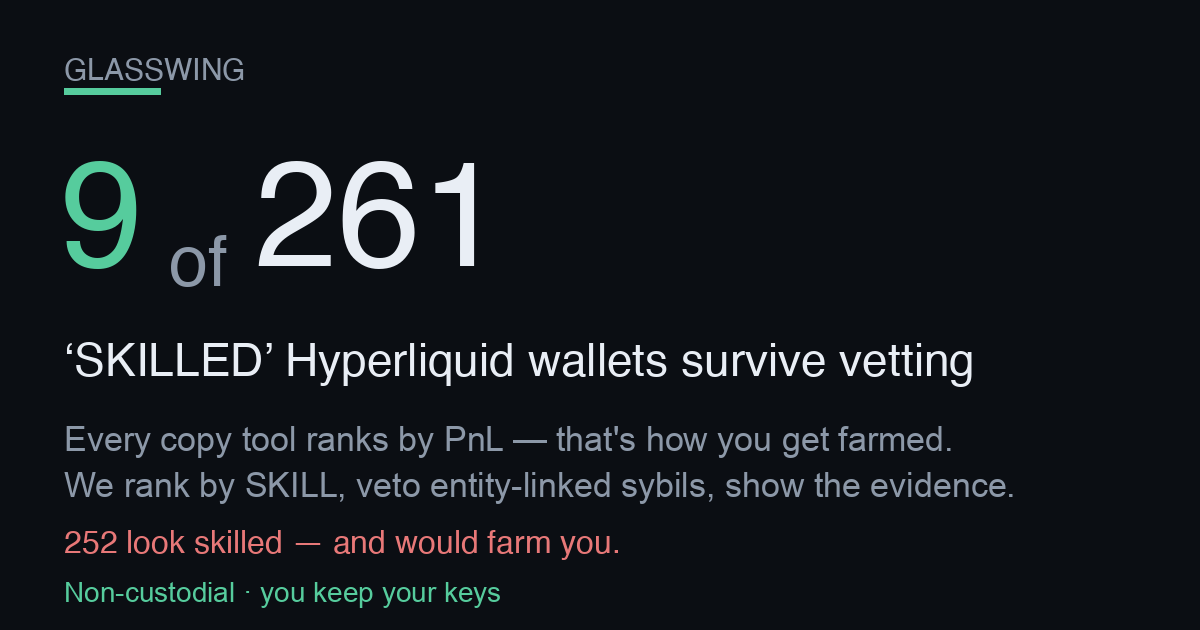
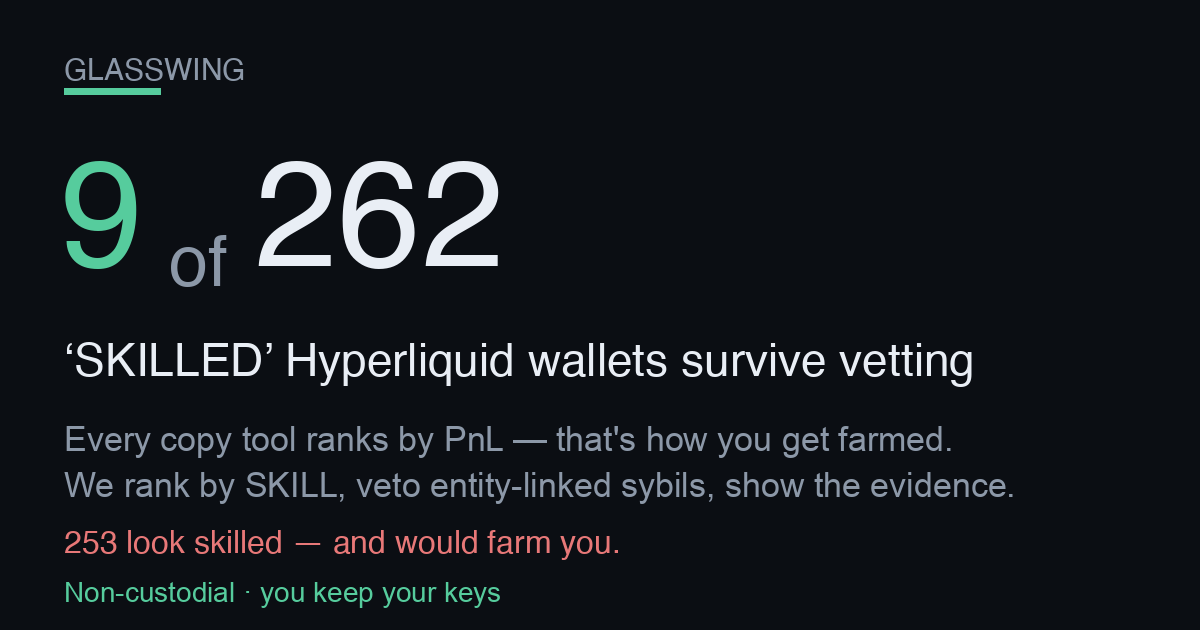
publish funnel 2026-08-20T17:43:43Z

Changed region(s): [[0.3392, 0.2413, 0.4317, 0.4222]]

diff --git a/screener.html b/screener.html
@@ -57,4 +57,4 @@ padding:11px 22px;font-size:15px;font-weight:800;border:1px solid var(--good)}
 footer{margin-top:34px;color:var(--muted);font-size:12px;line-height:1.6;
 border-top:1px solid var(--line);padding-top:16px}
 footer b{color:var(--ink)}
-</style></head><body><div class="wrap"><div class="nav"><a href="./index.html">&larr; Glasswing home</a><span class="sep">|</span><span>Edge Screener</span><span class="sep">|</span><a href="./dex.html">Copy a vetted leader</a></div><div class="hero"><h1>Hyperliquid Edge Screener</h1><div class="sub">Where&rsquo;s the carry, where a maker earns, and what&rsquo;s moving on Hyperliquid &mdash; live, computed from the public API. Bookmark it. Every number below is real and timestamped.</div><div class="stamp">Data as of <b>2026-08-20T11:24:05Z</b> &middot; rendered 2026-08-20T11:24:05Z &middot; 177 perps &middot; 101 HIP-3 (xyz) markets scanned</div></div><h2>Top funding &mdash; the carry table <span class="hint">perps ranked by annualized funding. Positive = longs pay shorts (a delta-neutral short earns it).</span></h2><div class="tblwrap"><table><thead><tr><th>Coin</th><th>Funding / hr</th><th>Annualized</th><th>Who pays</th><th>Open interest</th><th>24h volume</th></tr></thead><tbody><tr><td class="coin">ACE</td><td>-0.0349%</td><td class="neg">-305.6%</td><td><span class="tag shorts">shorts pay</span></td><td>$2.1M</td><td>$3.6M</td></tr><tr><td class="coin">PURR</td><td>+0.0347%</td><td class="pos">+303.8%</td><td><span class="tag longs">longs pay</span></td><td>$9.3M</td><td>$5.8M</td></tr><tr><td class="coin">CASHCAT</td><td>+0.0333%</td><td class="pos">+291.5%</td><td><span class="tag longs">longs pay</span></td><td>$16.6M</td><td>$14.9M</td></tr><tr><td class="coin">MNT</td><td>+0.0094%</td><td class="pos">+82.0%</td><td><span class="tag longs">longs pay</span></td><td>$3.3M</td><td>$1.9M</td></tr><tr><td class="coin">BIGTIME<span class="tag thin" title="Low liquidity/OI &mdash; ADL &amp; liquidation risk; funding can flip">&#9888; thin</span></td><td>-0.0087%</td><td class="neg">-76.0%</td><td><span class="tag shorts">shorts pay</span></td><td>$227K</td><td>$100K</td></tr><tr><td class="coin">APEX<span class="tag thin" title="Low liquidity/OI &mdash; ADL &amp; liquidation risk; funding can flip">&#9888; thin</span></td><td>+0.0081%</td><td class="pos">+70.6%</td><td><span class="tag longs">longs pay</span></td><td>$784K</td><td>$235K</td></tr><tr><td class="coin">ATOM</td><td>-0.0076%</td><td class="neg">-66.3%</td><td><span class="tag shorts">shorts pay</span></td><td>$1.9M</td><td>$801K</td></tr><tr><td class="coin">VVV</td><td>+0.0061%</td><td class="pos">+53.7%</td><td><span class="tag longs">longs pay</span></td><td>$19.5M</td><td>$10.1M</td></tr><tr><td class="coin">GRASS</td><td>+0.0060%</td><td class="pos">+52.5%</td><td><span class="tag longs">longs pay</span></td><td>$6.7M</td><td>$3.0M</td></tr><tr><td class="coin">CHIP</td><td>+0.0060%</td><td class="pos">+52.3%</td><td><span class="tag longs">longs pay</span></td><td>$3.8M</td><td>$3.8M</td></tr><tr><td class="coin">GRAM</td><td>+0.0056%</td><td class="pos">+49.0%</td><td><span class="tag longs">longs pay</span></td><td>$17.3M</td><td>$3.6M</td></tr><tr><td class="coin">WLFI</td><td>-0.0038%</td><td class="neg">-33.5%</td><td><span class="tag shorts">shorts pay</span></td><td>$13.4M</td><td>$3.8M</td></tr></tbody></table></div><h2>Widest HIP-3 spreads &mdash; where a maker earns <span class="hint">xyz: markets by impact-price spread vs the ~0.6bps round-trip fee. A resting limit order captures the gap.</span></h2><div class="tblwrap"><table><thead><tr><th>Market</th><th>Spread</th><th>vs 0.6bps fee</th><th>Mid</th><th>24h volume</th></tr></thead><tbody><tr><td class="coin">xyz:BIRD<span class="tag gm">growth</span></td><td>172.1 bps</td><td class="pos">+171.5 bps</td><td>2.4644</td><td>$110K</td></tr><tr><td class="coin">xyz:NCLD<span class="tag gm">growth</span></td><td>133.4 bps</td><td class="pos">+132.8 bps</td><td>23.9610</td><td>$338K</td></tr><tr><td class="coin">xyz:NET<span class="tag gm">growth</span></td><td>110.3 bps</td><td class="pos">+109.7 bps</td><td>290.8300</td><td>$36K</td></tr><tr><td class="coin">xyz:GIGADEV<span class="tag gm">growth</span></td><td>97.5 bps</td><td class="pos">+96.9 bps</td><td>60.1430</td><td>$878K</td></tr><tr><td class="coin">xyz:MAGS<span class="tag gm">growth</span></td><td>70.3 bps</td><td class="pos">+69.7 bps</td><td>67.8645</td><td>$419K</td></tr><tr><td class="coin">xyz:DKNG<span class="tag gm">growth</span></td><td>70.2 bps</td><td class="pos">+69.6 bps</td><td>25.4360</td><td>$34K</td></tr><tr><td class="coin">xyz:SHAZ<span class="tag gm">growth</span></td><td>68.9 bps</td><td class="pos">+68.3 bps</td><td>66.4840</td><td>$3.4M</td></tr><tr><td class="coin">xyz:PURRDAT</td><td>62.1 bps</td><td class="pos">+61.5 bps</td><td>9.7628</td><td>$28.1M</td></tr><tr><td class="coin">xyz:CRWD<span class="tag gm">growth</span></td><td>57.7 bps</td><td class="pos">+57.1 bps</td><td>197.2450</td><td>$2.1M</td></tr><tr><td class="coin">xyz:SOFTBANK<span class="tag gm">growth</span></td><td>54.1 bps</td><td class="pos">+53.5 bps</td><td>33.7590</td><td>$261K</td></tr><tr><td class="coin">xyz:QNT<span class="tag gm">growth</span></td><td>47.1 bps</td><td class="pos">+46.5 bps</td><td>56.9560</td><td>$1.5M</td></tr><tr><td class="coin">xyz:URNM<span class="tag gm">growth</span></td><td>46.5 bps</td><td class="pos">+45.9 bps</td><td>55.5690</td><td>$141K</td></tr></tbody></table></div><h2>Momentum &amp; volume &mdash; what&rsquo;s moving <span class="hint">perps by 24h volume with the 24h price change (mark vs prior-day).</span></h2><div class="tblwrap"><table><thead><tr><th>Coin</th><th>24h volume</th><th>24h change</th><th>Mark</th></tr></thead><tbody><tr><td class="coin">BTC</td><td>$7.59B</td><td class="pos">+11.56%</td><td>71,932.00</td></tr><tr><td class="coin">ETH</td><td>$4.37B</td><td class="pos">+19.36%</td><td>2,293.00</td></tr><tr><td class="coin">HYPE</td><td>$1.95B</td><td class="pos">+22.96%</td><td>72.1390</td></tr><tr><td class="coin">SOL</td><td>$497.0M</td><td class="pos">+12.48%</td><td>87.2520</td></tr><tr><td class="coin">ZEC</td><td>$251.6M</td><td class="pos">+11.25%</td><td>564.3500</td></tr><tr><td class="coin">XRP</td><td>$136.1M</td><td class="pos">+15.90%</td><td>1.1651</td></tr><tr><td class="coin">PUMP</td><td>$105.9M</td><td class="pos">+12.72%</td><td>0.003377</td></tr><tr><td class="coin">LIT</td><td>$67.3M</td><td class="pos">+20.17%</td><td>2.7709</td></tr><tr><td class="coin">DOGE</td><td>$35.3M</td><td class="pos">+9.93%</td><td>0.077162</td></tr><tr><td class="coin">LINK</td><td>$31.2M</td><td class="pos">+9.69%</td><td>10.6930</td></tr><tr><td class="coin">BNB</td><td>$27.6M</td><td class="pos">+6.69%</td><td>642.7470</td></tr><tr><td class="coin">kPEPE</td><td>$25.7M</td><td class="pos">+20.97%</td><td>0.003138</td></tr></tbody></table></div><div class="cta"><h2>These are the opportunities. Now copy the people who trade them.</h2><p class="lead">Spotting the carry and the spreads is the easy part &mdash; sizing, timing and risk are where most traders bleed. Copy the <b>skill-vetted</b> Hyperliquid leaders who actually trade these edges. Non-custodial: <b>you keep your keys and your funds</b> the entire time.</p><div class="row"><a class="btn" href="./index.html">See the vetted leaders &rarr;</a><a class="btn ghost" href="./dex.html">Start copying (non-custodial) &rarr;</a></div><div class="nc"><b>Non-custodial &amp; honest:</b> we never hold your keys or funds. Copying routes through a <b>0.01%</b> (1bp) on-chain builder fee &mdash; that is the only thing we ever charge, and it is the same fee shown on the copy page. Nothing on this screener is executed for you; it is information only.</div></div><footer><b>Not financial advice.</b> Funding rates, spreads and volumes are live snapshots that change every block; figures can be stale by the time you act. A high funding rate is <b>not free money</b> &mdash; the biggest rates sit on the thinnest, most crowded books (flagged &#9888; thin), where funding can flip against you and auto-deleveraging (ADL) or liquidation can close your position. &ldquo;Spread&rdquo; here is the impact-price spread (a conservative maker signal), not a guaranteed fill. HIP-3 markets are experimental. Do your own research and size responsibly. Glasswing is <b>non-custodial</b> &mdash; we never take custody of your keys or funds.</footer></div></body></html>
+</style></head><body><div class="wrap"><div class="nav"><a href="./index.html">&larr; Glasswing home</a><span class="sep">|</span><span>Edge Screener</span><span class="sep">|</span><a href="./dex.html">Copy a vetted leader</a></div><div class="hero"><h1>Hyperliquid Edge Screener</h1><div class="sub">Where&rsquo;s the carry, where a maker earns, and what&rsquo;s moving on Hyperliquid &mdash; live, computed from the public API. Bookmark it. Every number below is real and timestamped.</div><div class="stamp">Data as of <b>2026-08-20T17:41:29Z</b> &middot; rendered 2026-08-20T17:41:29Z &middot; 177 perps &middot; 101 HIP-3 (xyz) markets scanned</div></div><h2>Top funding &mdash; the carry table <span class="hint">perps ranked by annualized funding. Positive = longs pay shorts (a delta-neutral short earns it).</span></h2><div class="tblwrap"><table><thead><tr><th>Coin</th><th>Funding / hr</th><th>Annualized</th><th>Who pays</th><th>Open interest</th><th>24h volume</th></tr></thead><tbody><tr><td class="coin">CASHCAT</td><td>+0.0415%</td><td class="pos">+363.8%</td><td><span class="tag longs">longs pay</span></td><td>$20.0M</td><td>$14.7M</td></tr><tr><td class="coin">VINE<span class="tag thin" title="Low liquidity/OI &mdash; ADL &amp; liquidation risk; funding can flip">&#9888; thin</span></td><td>+0.0334%</td><td class="pos">+292.8%</td><td><span class="tag longs">longs pay</span></td><td>$473K</td><td>$305K</td></tr><tr><td class="coin">PEOPLE</td><td>+0.0236%</td><td class="pos">+206.3%</td><td><span class="tag longs">longs pay</span></td><td>$4.2M</td><td>$1.3M</td></tr><tr><td class="coin">ACE</td><td>-0.0183%</td><td class="neg">-160.6%</td><td><span class="tag shorts">shorts pay</span></td><td>$2.3M</td><td>$2.9M</td></tr><tr><td class="coin">AZTEC<span class="tag thin" title="Low liquidity/OI &mdash; ADL &amp; liquidation risk; funding can flip">&#9888; thin</span></td><td>+0.0168%</td><td class="pos">+147.1%</td><td><span class="tag longs">longs pay</span></td><td>$548K</td><td>$190K</td></tr><tr><td class="coin">STABLE</td><td>-0.0120%</td><td class="neg">-104.8%</td><td><span class="tag shorts">shorts pay</span></td><td>$1.2M</td><td>$653K</td></tr><tr><td class="coin">CHIP</td><td>+0.0108%</td><td class="pos">+94.3%</td><td><span class="tag longs">longs pay</span></td><td>$4.2M</td><td>$3.4M</td></tr><tr><td class="coin">VVV</td><td>+0.0095%</td><td class="pos">+82.9%</td><td><span class="tag longs">longs pay</span></td><td>$20.0M</td><td>$7.4M</td></tr><tr><td class="coin">ASTER</td><td>+0.0094%</td><td class="pos">+82.7%</td><td><span class="tag longs">longs pay</span></td><td>$19.6M</td><td>$11.5M</td></tr><tr><td class="coin">ZEC</td><td>+0.0089%</td><td class="pos">+77.9%</td><td><span class="tag longs">longs pay</span></td><td>$282.0M</td><td>$219.0M</td></tr><tr><td class="coin">GRASS</td><td>+0.0089%</td><td class="pos">+77.7%</td><td><span class="tag longs">longs pay</span></td><td>$7.2M</td><td>$3.1M</td></tr><tr><td class="coin">STBL</td><td>+0.0087%</td><td class="pos">+76.5%</td><td><span class="tag longs">longs pay</span></td><td>$2.0M</td><td>$272K</td></tr></tbody></table></div><h2>Widest HIP-3 spreads &mdash; where a maker earns <span class="hint">xyz: markets by impact-price spread vs the ~0.6bps round-trip fee. A resting limit order captures the gap.</span></h2><div class="tblwrap"><table><thead><tr><th>Market</th><th>Spread</th><th>vs 0.6bps fee</th><th>Mid</th><th>24h volume</th></tr></thead><tbody><tr><td class="coin">xyz:BIRD<span class="tag gm">growth</span></td><td>141.0 bps</td><td class="pos">+140.4 bps</td><td>2.3825</td><td>$119K</td></tr><tr><td class="coin">xyz:GIGADEV<span class="tag gm">growth</span></td><td>99.0 bps</td><td class="pos">+98.4 bps</td><td>60.4145</td><td>$797K</td></tr><tr><td class="coin">xyz:SOFTBANK<span class="tag gm">growth</span></td><td>91.7 bps</td><td class="pos">+91.1 bps</td><td>33.2750</td><td>$136K</td></tr><tr><td class="coin">xyz:CRWD<span class="tag gm">growth</span></td><td>62.5 bps</td><td class="pos">+61.9 bps</td><td>193.1750</td><td>$700K</td></tr><tr><td class="coin">xyz:KR200<span class="tag gm">growth</span></td><td>56.0 bps</td><td class="pos">+55.4 bps</td><td>1,066.45</td><td>$1.5M</td></tr><tr><td class="coin">xyz:NCLD<span class="tag gm">growth</span></td><td>44.7 bps</td><td class="pos">+44.1 bps</td><td>23.4250</td><td>$295K</td></tr><tr><td class="coin">xyz:NET<span class="tag gm">growth</span></td><td>42.3 bps</td><td class="pos">+41.7 bps</td><td>282.3800</td><td>$38K</td></tr><tr><td class="coin">xyz:MINIMAX<span class="tag gm">growth</span></td><td>30.5 bps</td><td class="pos">+29.9 bps</td><td>39.4055</td><td>$4.0M</td></tr><tr><td class="coin">xyz:BOT<span class="tag gm">growth</span></td><td>26.7 bps</td><td class="pos">+26.1 bps</td><td>28.2140</td><td>$1.4M</td></tr><tr><td class="coin">xyz:HYUNDAI<span class="tag gm">growth</span></td><td>26.6 bps</td><td class="pos">+26.0 bps</td><td>295.2100</td><td>$2.1M</td></tr><tr><td class="coin">xyz:RDDT<span class="tag gm">growth</span></td><td>25.7 bps</td><td class="pos">+25.1 bps</td><td>146.2050</td><td>$223K</td></tr><tr><td class="coin">xyz:KIOXIA<span class="tag gm">growth</span></td><td>25.0 bps</td><td class="pos">+24.4 bps</td><td>325.3150</td><td>$6.9M</td></tr></tbody></table></div><h2>Momentum &amp; volume &mdash; what&rsquo;s moving <span class="hint">perps by 24h volume with the 24h price change (mark vs prior-day).</span></h2><div class="tblwrap"><table><thead><tr><th>Coin</th><th>24h volume</th><th>24h change</th><th>Mark</th></tr></thead><tbody><tr><td class="coin">BTC</td><td>$5.48B</td><td class="pos">+7.01%</td><td>72,789.00</td></tr><tr><td class="coin">ETH</td><td>$3.53B</td><td class="pos">+12.51%</td><td>2,345.60</td></tr><tr><td class="coin">HYPE</td><td>$1.94B</td><td class="pos">+19.77%</td><td>74.1670</td></tr><tr><td class="coin">SOL</td><td>$299.0M</td><td class="pos">+7.75%</td><td>87.7310</td></tr><tr><td class="coin">ZEC</td><td>$219.0M</td><td class="pos">+5.72%</td><td>582.1000</td></tr><tr><td class="coin">XRP</td><td>$216.1M</td><td class="pos">+26.34%</td><td>1.3391</td></tr><tr><td class="coin">PUMP</td><td>$127.1M</td><td class="pos">+18.53%</td><td>0.003717</td></tr><tr><td class="coin">LIT</td><td>$86.9M</td><td class="pos">+11.06%</td><td>2.7543</td></tr><tr><td class="coin">DOGE</td><td>$48.0M</td><td class="pos">+15.00%</td><td>0.083067</td></tr><tr><td class="coin">LINK</td><td>$28.8M</td><td class="pos">+8.81%</td><td>10.8090</td></tr><tr><td class="coin">FARTCOIN</td><td>$27.7M</td><td class="pos">+12.22%</td><td>0.16868</td></tr><tr><td class="coin">TRUMP</td><td>$26.7M</td><td class="pos">+15.69%</td><td>1.6778</td></tr></tbody></table></div><div class="cta"><h2>These are the opportunities. Now copy the people who trade them.</h2><p class="lead">Spotting the carry and the spreads is the easy part &mdash; sizing, timing and risk are where most traders bleed. Copy the <b>skill-vetted</b> Hyperliquid leaders who actually trade these edges. Non-custodial: <b>you keep your keys and your funds</b> the entire time.</p><div class="row"><a class="btn" href="./index.html">See the vetted leaders &rarr;</a><a class="btn ghost" href="./dex.html">Start copying (non-custodial) &rarr;</a></div><div class="nc"><b>Non-custodial &amp; honest:</b> we never hold your keys or funds. Copying routes through a <b>0.01%</b> (1bp) on-chain builder fee &mdash; that is the only thing we ever charge, and it is the same fee shown on the copy page. Nothing on this screener is executed for you; it is information only.</div></div><footer><b>Not financial advice.</b> Funding rates, spreads and volumes are live snapshots that change every block; figures can be stale by the time you act. A high funding rate is <b>not free money</b> &mdash; the biggest rates sit on the thinnest, most crowded books (flagged &#9888; thin), where funding can flip against you and auto-deleveraging (ADL) or liquidation can close your position. &ldquo;Spread&rdquo; here is the impact-price spread (a conservative maker signal), not a guaranteed fill. HIP-3 markets are experimental. Do your own research and size responsibly. Glasswing is <b>non-custodial</b> &mdash; we never take custody of your keys or funds.</footer></div></body></html>

diff --git a/track.html b/track.html
@@ -62,7 +62,7 @@ font-weight:600;font-size:14px}
 <div class="wrap">
   <div class="hero">
     <h1>Self-verifying on-chain track record</h1>
-    <div class="big">$176.13</div>
+    <div class="big">$148.92</div>
     <div class="sub">current on-chain equity (perp + vault + spot USDC)</div>
     <div class="addr">0xbe6C1b09662BbE52CC93279D103Feb27985DdBc1</div>
     <div class="stage building">32 days live — BUILDING</div>
@@ -72,25 +72,25 @@ font-weight:600;font-size:14px}
 
   <h2>On-chain figures <span style="color:var(--muted);font-weight:400;font-size:13px">
   &mdash; every one reproducible from the public info API</span></h2>
-  <table><tbody><tr><td class="k">On-chain equity (perp + vault + spot USDC)</td><td class="v">$176.13</td></tr><tr><td class="k">Perp account value</td><td class="v">$125.23</td></tr><tr><td class="k">Vault equity</td><td class="v">$47.55</td></tr><tr><td class="k">Spot USDC</td><td class="v">$3.35</td></tr><tr><td class="k">Withdrawable</td><td class="v">$45.24</td></tr></tbody></table>
+  <table><tbody><tr><td class="k">On-chain equity (perp + vault + spot USDC)</td><td class="v">$148.92</td></tr><tr><td class="k">Perp account value</td><td class="v">$98.47</td></tr><tr><td class="k">Vault equity</td><td class="v">$47.10</td></tr><tr><td class="k">Spot USDC</td><td class="v">$3.35</td></tr><tr><td class="k">Withdrawable</td><td class="v">$17.33</td></tr></tbody></table>
 
-  <h2>Vault deposits (on-chain)</h2><table><thead><tr><th>Vault address</th><th>Our equity</th></tr></thead><tbody><tr><td class="mono">0x2431edfcb662e6ff6deab113cc91878a0b53fb0f</td><td class="v">$0.01</td></tr><tr><td class="mono">0x697bc3dd77539fa84156d0e1c95287ea5524fd6b</td><td class="v">$20.28</td></tr><tr><td class="mono">0x8825e6ed11c7f9c0874579c9f4bba192b9e81c8f</td><td class="v">$0.12</td></tr><tr><td class="mono">0xc71f5a493b937e4b1798b86510630336a6dfd804</td><td class="v">$27.14</td></tr></tbody></table>
+  <h2>Vault deposits (on-chain)</h2><table><thead><tr><th>Vault address</th><th>Our equity</th></tr></thead><tbody><tr><td class="mono">0x2431edfcb662e6ff6deab113cc91878a0b53fb0f</td><td class="v">$0.01</td></tr><tr><td class="mono">0x697bc3dd77539fa84156d0e1c95287ea5524fd6b</td><td class="v">$19.65</td></tr><tr><td class="mono">0x8825e6ed11c7f9c0874579c9f4bba192b9e81c8f</td><td class="v">$0.12</td></tr><tr><td class="mono">0xc71f5a493b937e4b1798b86510630336a6dfd804</td><td class="v">$27.32</td></tr></tbody></table>
 
   <h2>Performance <span style="color:var(--muted);font-weight:400;font-size:13px">
   &mdash; honest stage, no annualization</span></h2>
-  <table><tbody><tr><td class="k">Days live (our formal record)</td><td class="v">32</td></tr><tr><td class="k">Maturity</td><td class="v">BUILDING</td></tr><tr><td class="k">Current real strategy income / day</td><td class="v">$0.4328</td></tr><tr><td class="k">Cumulative net income (if attributed)</td><td class="v">$36.0646</td></tr><tr><td class="k">Annualized APR</td><td class="v">shown per-day above</td></tr></tbody></table>
+  <table><tbody><tr><td class="k">Days live (our formal record)</td><td class="v">32</td></tr><tr><td class="k">Maturity</td><td class="v">BUILDING</td></tr><tr><td class="k">Current real strategy income / day</td><td class="v">$0.4392</td></tr><tr><td class="k">Cumulative net income (if attributed)</td><td class="v">$36.1122</td></tr><tr><td class="k">Annualized APR</td><td class="v">shown per-day above</td></tr></tbody></table>
 
   <h2>Strategy arms <span style="color:var(--muted);font-weight:400;font-size:13px">
   &mdash; internal marks, cross-checkable against chain equity</span></h2>
-  <table><thead><tr><th>Arm</th><th>Status</th><th>Real / day</th><th>Note</th></tr></thead><tbody><tr><td class="v">carry</td><td><span class="badge live">live</span></td><td class="v">$0.4328</td><td class="k"></td></tr><tr><td class="v">copy</td><td><span class="badge live">live</span></td><td class="v">$0.0000</td><td class="k"></td></tr><tr><td class="v">builder</td><td><span class="badge off">—</span></td><td class="v">$0.0000</td><td class="k">proven live; $0 until distributed (∝ users&#x27; volume)</td></tr></tbody></table>
+  <table><thead><tr><th>Arm</th><th>Status</th><th>Real / day</th><th>Note</th></tr></thead><tbody><tr><td class="v">carry</td><td><span class="badge live">live</span></td><td class="v">$0.4392</td><td class="k"></td></tr><tr><td class="v">copy</td><td><span class="badge live">live</span></td><td class="v">$0.0000</td><td class="k"></td></tr><tr><td class="v">builder</td><td><span class="badge off">—</span></td><td class="v">$0.0000</td><td class="k">proven live; $0 until distributed (∝ users&#x27; volume)</td></tr></tbody></table>
 
   <h2>Reproduce it</h2>
   <div class="verify"><h3>Verify this yourself</h3><p>These are PUBLIC calls. Run them yourself against the address below and you will re-derive every on-chain figure on this page. equity_usd = perp accountValue + vault equity + spot USDC. Endpoint: https://api.hyperliquid.xyz/info</p><div class="cn">clearinghouseState &rarr; marginSummary.accountValue (perp value), withdrawable, marginSummary.totalMarginUsed</div><pre>curl -s -X POST https://api.hyperliquid.xyz/info -H &#x27;Content-Type: application/json&#x27; -d &#x27;{&quot;type&quot;: &quot;clearinghouseState&quot;, &quot;user&quot;: &quot;0xbe6C1b09662BbE52CC93279D103Feb27985DdBc1&quot;}&#x27;</pre><div class="cn">userVaultEquities &rarr; sum of each entry&#x27;s equity (our vault deposits)</div><pre>curl -s -X POST https://api.hyperliquid.xyz/info -H &#x27;Content-Type: application/json&#x27; -d &#x27;{&quot;type&quot;: &quot;userVaultEquities&quot;, &quot;user&quot;: &quot;0xbe6C1b09662BbE52CC93279D103Feb27985DdBc1&quot;}&#x27;</pre><div class="cn">spotClearinghouseState &rarr; balances[] where coin==USDC -&gt; total (spot USDC)</div><pre>curl -s -X POST https://api.hyperliquid.xyz/info -H &#x27;Content-Type: application/json&#x27; -d &#x27;{&quot;type&quot;: &quot;spotClearinghouseState&quot;, &quot;user&quot;: &quot;0xbe6C1b09662BbE52CC93279D103Feb27985DdBc1&quot;}&#x27;</pre></div>
 
   <footer>
     <div>Self-verifying: every on-chain figure is reproducible by querying Hyperliquid&#x27;s public info API for the stated address. Internal daily marks are cross-checkable against on-chain equity. EARLY-STAGE record — not a mature track record, not an APR promise, not financial advice. Past performance != future results.</div>
-    <div class="stamp">Generated at 2026-08-20T11:21:24Z &middot; internal marks
-    mtime 2026-08-20T08:50:17Z &middot; static receipt, no live
+    <div class="stamp">Generated at 2026-08-20T17:39:34Z &middot; internal marks
+    mtime 2026-08-20T14:50:28Z &middot; static receipt, no live
     authority — this page never trades or arms.</div>
   </footer>
 </div>

diff --git a/index.html b/index.html
@@ -3,8 +3,8 @@
 <head>
 <meta charset="utf-8">
 <meta name="viewport" content="width=device-width, initial-scale=1">
-<title>9 of 261 SKILLED Hyperliquid wallets survive vetting</title>
-<meta name="description" content="9 of 261 leaderboard-SKILLED Hyperliquid wallets survive vetting. Copy only the survivors, non-custodial — you keep your keys and funds.">
+<title>9 of 262 SKILLED Hyperliquid wallets survive vetting</title>
+<meta name="description" content="9 of 262 leaderboard-SKILLED Hyperliquid wallets survive vetting. Copy only the survivors, non-custodial — you keep your keys and funds.">
 <link rel="canonical" href="https://dynobit.github.io/glasswing/">
 <meta name="robots" content="index,follow">
 <meta name="theme-color" content="#0b0e13">
@@ -14,14 +14,14 @@
      head, not this. og:url is the canonical Pages home so every share resolves here. -->
 <meta property="og:type" content="website">
 <meta property="og:site_name" content="Glasswing">
-<meta property="og:title" content="9 of 261 SKILLED Hyperliquid wallets survive vetting">
+<meta property="og:title" content="9 of 262 SKILLED Hyperliquid wallets survive vetting">
 <meta property="og:description" content="Every copy tool ranks leaders by PnL — which is how you get farmed. This ranks by SKILL, then vetoes entity-linked sybils, and shows the evidence for every reject. Non-custodial: you keep your keys.">
 <meta property="og:url" content="https://dynobit.github.io/glasswing/">
 <meta property="og:image" content="https://dynobit.github.io/glasswing/og-card.png">
 <meta property="og:image:width" content="1200">
 <meta property="og:image:height" content="630">
 <meta name="twitter:card" content="summary_large_image">
-<meta name="twitter:title" content="9 of 261 SKILLED Hyperliquid wallets survive vetting">
+<meta name="twitter:title" content="9 of 262 SKILLED Hyperliquid wallets survive vetting">
 <meta name="twitter:description" content="Skill-ranked (not PnL-ranked) HL copy-leaders, entity-linked sybils vetoed with evidence. Non-custodial.">
 <meta name="twitter:image" content="https://dynobit.github.io/glasswing/og-card.png">
 <style>
@@ -135,18 +135,18 @@ footer .nc{color:var(--good);font-weight:600}
 
   <!-- 1. HERO — the shareable hook (screenshot-worthy) -->
   <div class="hero">
-    <h1><span class="big">9 of 261</span> &lsquo;SKILLED&rsquo;
+    <h1><span class="big">9 of 262</span> &lsquo;SKILLED&rsquo;
     Hyperliquid wallets survive vetting</h1>
-    <div class="sub">The other <span class="trap">252</span> look skilled on a
+    <div class="sub">The other <span class="trap">253</span> look skilled on a
     raw copy leaderboard but would farm you &mdash; here are the
-    <span class="trap">252</span> that would. Entity-linked sybils,
+    <span class="trap">253</span> that would. Entity-linked sybils,
     wash-traded track records, or simply unscreened. 3.4% survive.
-    Universe: 2250 scored wallets.</div>
+    Universe: 2261 scored wallets.</div>
   </div>
 
   <!-- 2. THE WEDGE — the marketing (why us, not any other copy tool) -->
   <div class="wedge"><span class="them">Every other copy tool ranks all
-    261 by PnL and calls it a leaderboard.</span> We are the only one that
+    262 by PnL and calls it a leaderboard.</span> We are the only one that
     <b>flags the entity-linked and farming wallets with on-chain evidence</b> &mdash;
     transfer-graph linkage between wallets and arXiv memecoin farm-features &mdash;
     and shows you only the 9 that survive. A high PnL is exactly what a
@@ -268,7 +268,7 @@ footer .nc{color:var(--good);font-weight:600}
   <footer>
     <div class="nc">Non-custodial: we never hold your keys or funds. No server, no backend. Your browser talks only to Hyperliquid&#x27;s public API.</div>
     <div>Advisory. Skill = sign-randomization null vs luck. Entity veto = public transfer-graph linkage. Farm screen = arXiv:2601.08641 features (memecoin thresholds, HL-uncalibrated). Follower-realizable PnL is NOT yet proven — a PRE-COMMITTED forward test is in progress (0/2 windows, earliest 2026-08-13); the copyability claim publishes only when the pre-registered windows close, so it cannot be discovery-mined. Exit-alpha shown is advisory. Not financial advice.</div>
-    <div class="stamp">Generated at 2026-08-20T11:22:42Z &middot; single-file funnel,
+    <div class="stamp">Generated at 2026-08-20T17:40:09Z &middot; single-file funnel,
     no live authority. In-browser order signing is IMPLEMENTED (real secp256k1 +
     keccak + msgpack EIP-712 from a pinned CDN) but UNVALIDATED against Hyperliquid:
     mainnet is blocked until a testnet order is proven accepted.</div>

diff --git a/dex.html b/dex.html
@@ -112,8 +112,8 @@ footer .nc{color:var(--good);font-weight:600}
     funds and your keys the whole time. Two signatures in your own wallet, an
     ephemeral in-browser agent key that can trade but never withdraw, and a
     client-side loop that mirrors only the
-    <b>9 of 261</b> vetted survivors
-    (universe: 2250 scored wallets). No server, no backend.</div>
+    <b>9 of 262</b> vetted survivors
+    (universe: 2261 scored wallets). No server, no backend.</div>
     <div class="tag">static bundle &middot; IPFS-publishable &middot; revenue accrues on-chain</div>
   </div>
 
@@ -217,7 +217,7 @@ footer .nc{color:var(--good);font-weight:600}
   <footer>
     <div class="nc">Pure DEX, self-custodial. No server, no backend, no key we ever hold. Your browser talks only to Hyperliquid&#x27;s public API.</div>
     <div>Advisory. Skill = sign-randomization null vs luck. Entity veto = public transfer-graph linkage. Farm screen = arXiv:2601.08641 features (memecoin thresholds, HL-uncalibrated). Follower-realizable PnL is NOT yet proven — a PRE-COMMITTED forward test is in progress (0/2 windows, earliest 2026-08-13); the copyability claim publishes only when the pre-registered windows close, so it cannot be discovery-mined. Exit-alpha shown is advisory. Not financial advice.</div>
-    <div class="stamp">Generated at 2026-08-20T11:22:42Z &middot; static,
+    <div class="stamp">Generated at 2026-08-20T17:40:09Z &middot; static,
     self-custodial surface, no live authority. In-browser order signing is
     IMPLEMENTED (real secp256k1 + keccak + msgpack EIP-712 from a pinned CDN) but
     UNVALIDATED against Hyperliquid: mainnet is blocked until a testnet order is
